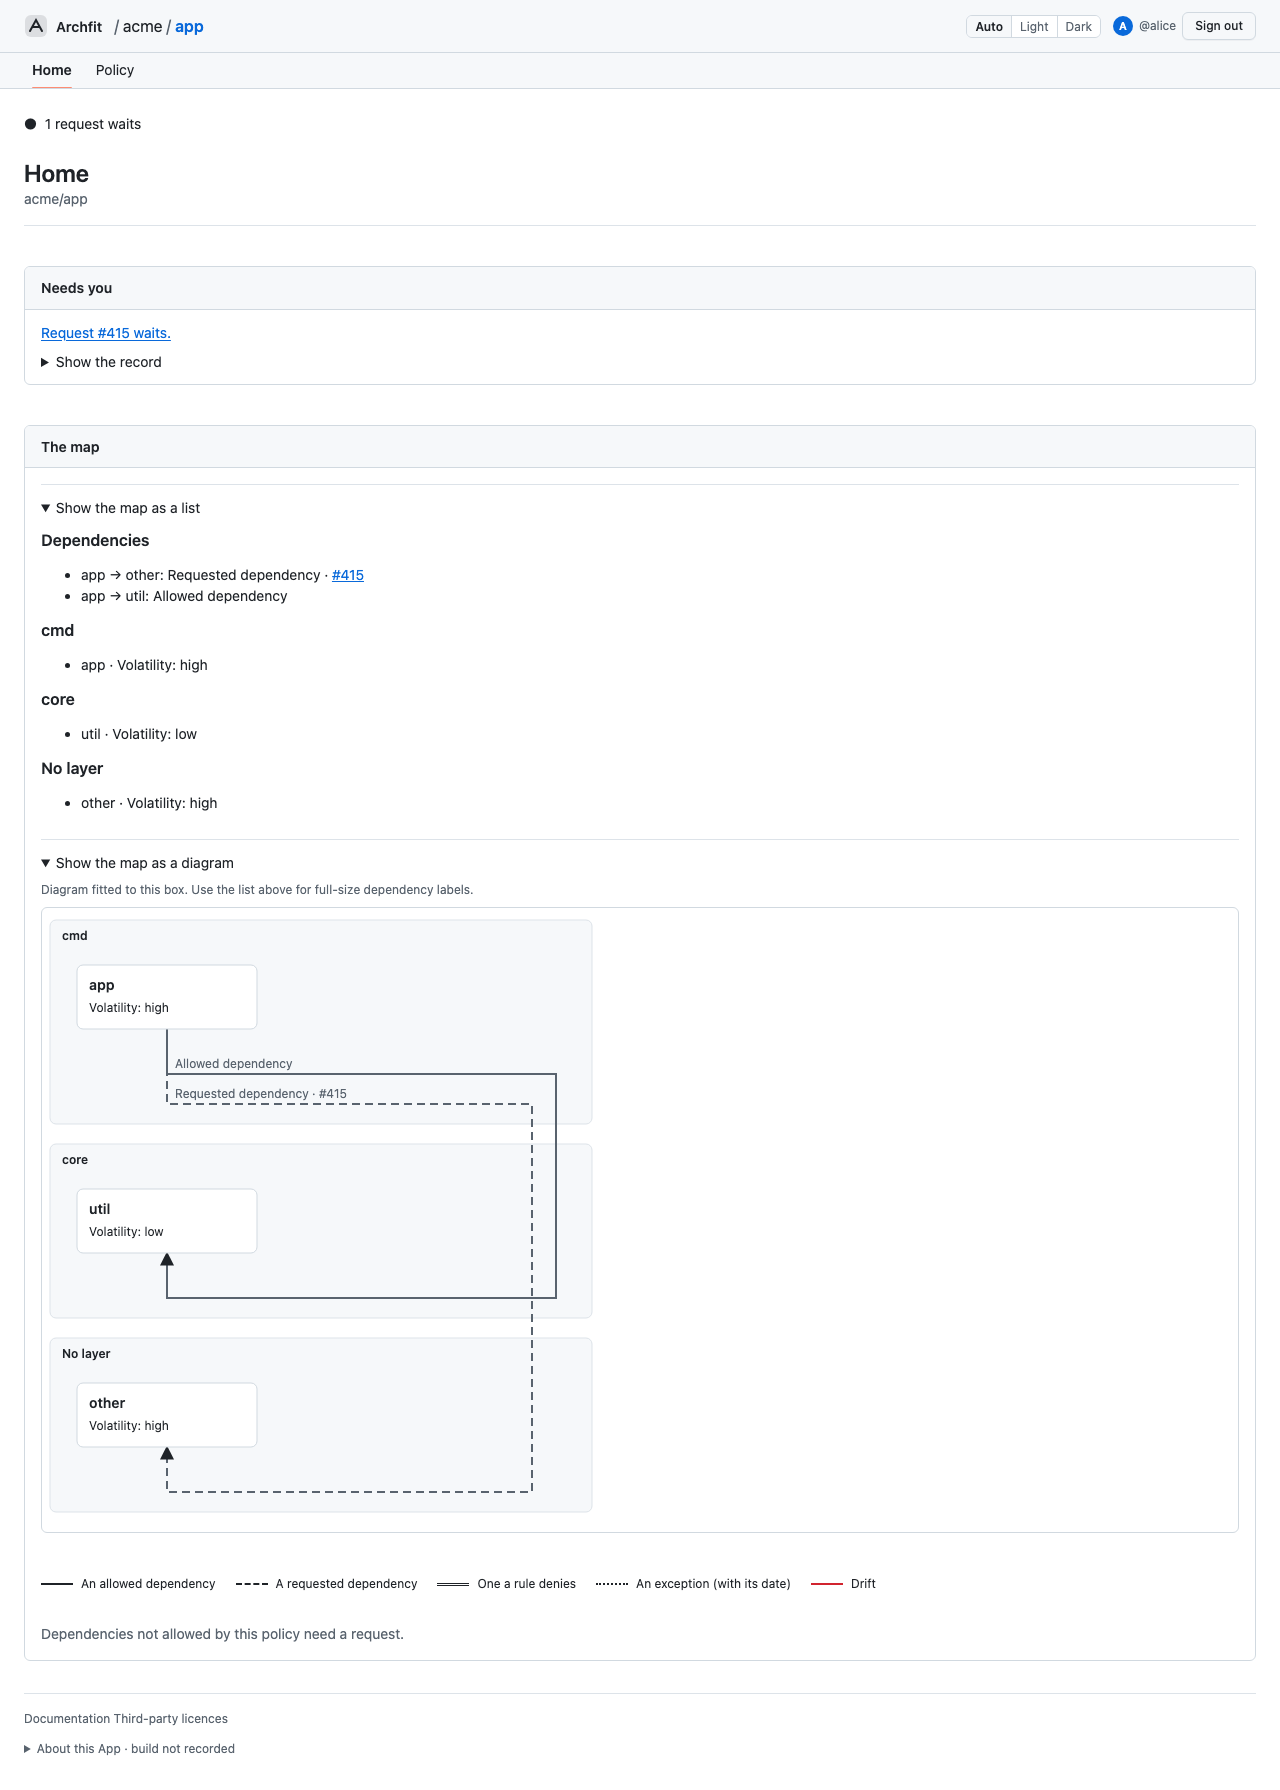
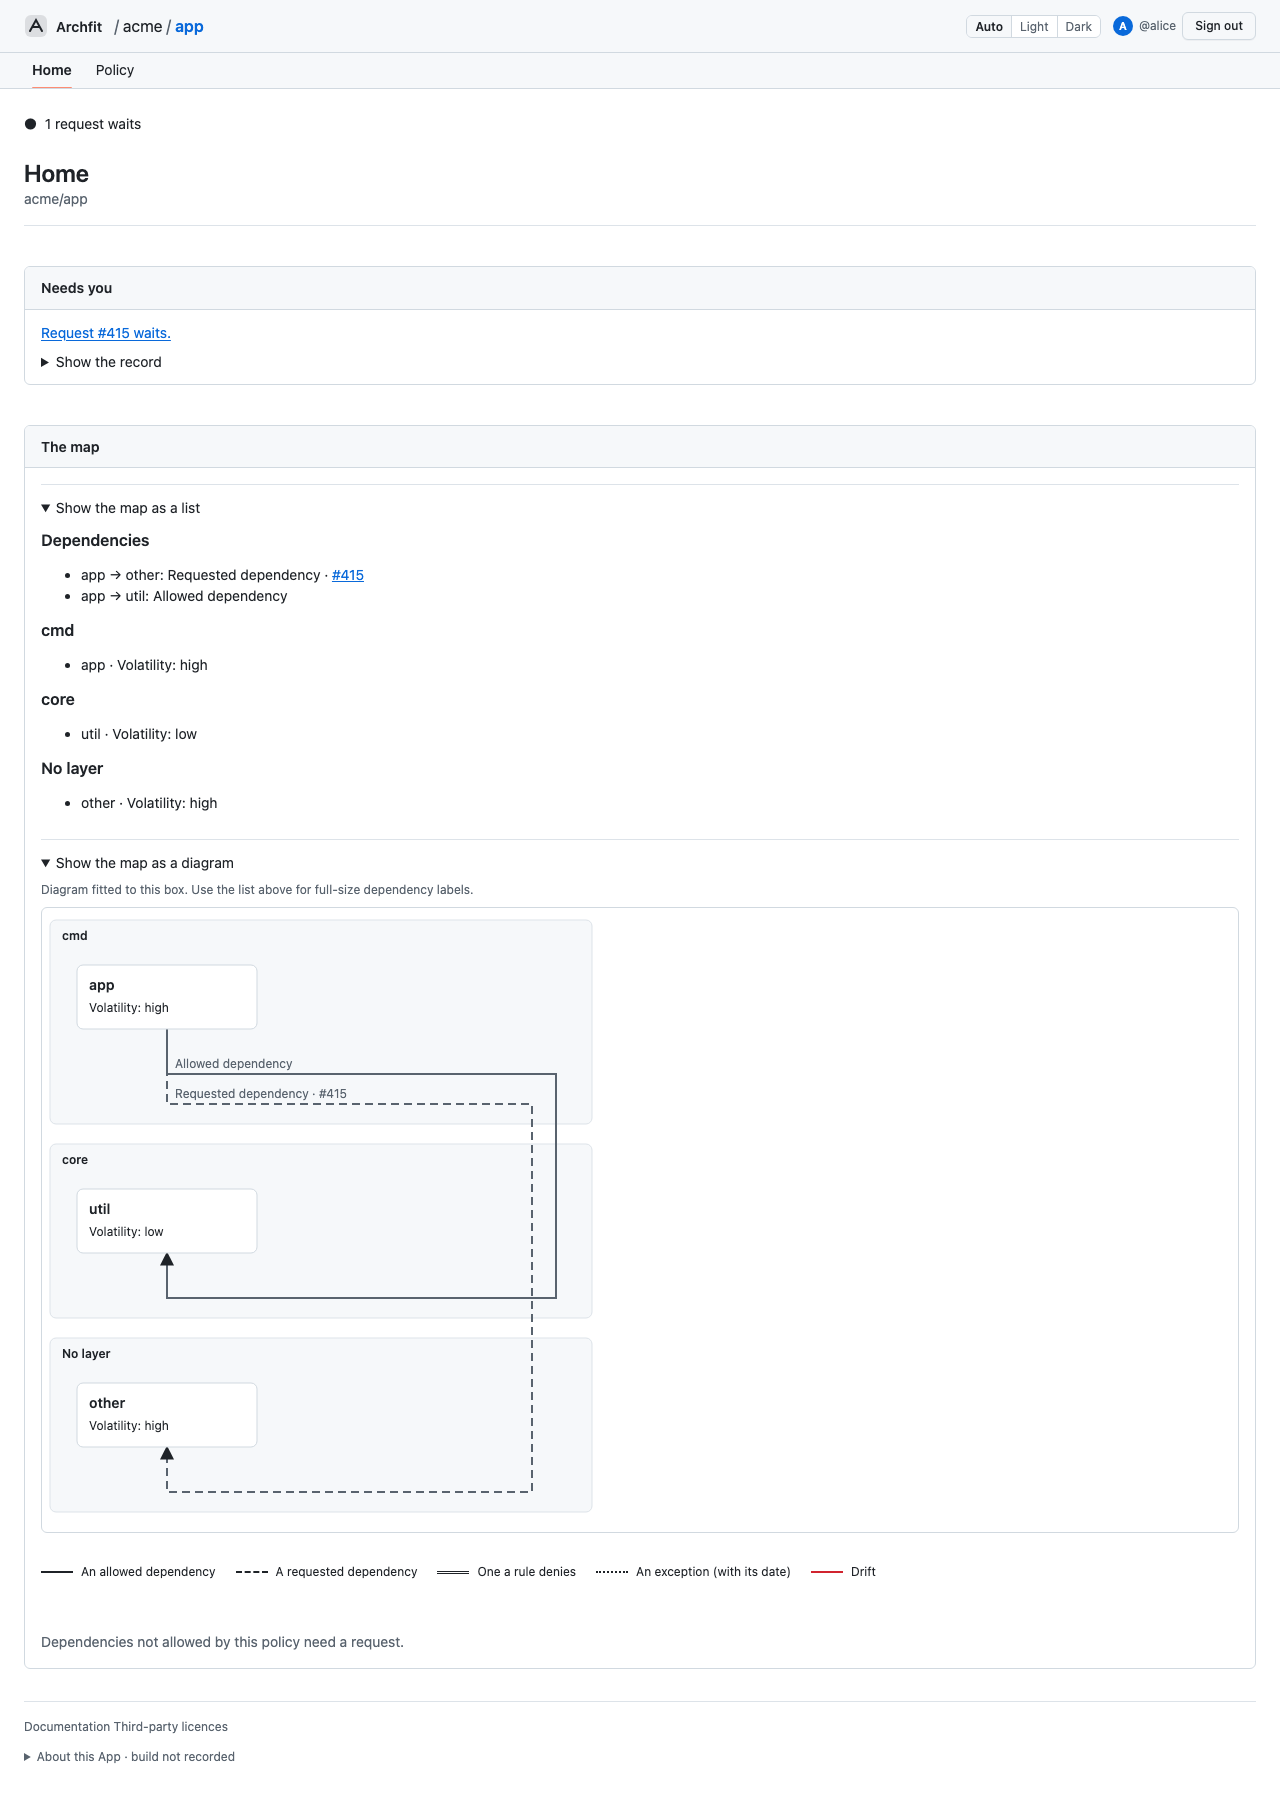
fix(web): keep the map legend inside the diagram disclosure

diff --git a/web/e2e/map-usability.spec.ts b/web/e2e/map-usability.spec.ts
@@ -34,10 +34,13 @@ for (const width of [390, 1280]) {
     const listToggle = page.getByText('Show the map as a list', { exact: true });
     const diagramToggle = page.getByText('Show the map as a diagram', { exact: true });
     await expect(page.locator('.map-node')).toHaveCount(3);
-    await expect(page.getByRole('list', { name: 'Map legend' })).not.toContainText('#');
+    const legend = page.locator('.map-diagram').getByRole('list', { name: 'Map legend', includeHidden: true });
+    await expect(legend).toHaveCount(1);
     await expect(page.locator('main')).not.toContainText('#431');
     if (width < 720) {
       await expect(diagram).toBeHidden();
+      await expect(legend).toBeHidden();
+      expect(await page.locator('main').innerText()).not.toContain('A requested dependency');
       await expect(page.getByText('app → other: Requested dependency · #415', { exact: true })).toBeVisible();
     } else {
       await expect(diagram).toBeVisible();
@@ -56,6 +59,9 @@ for (const width of [390, 1280]) {
       await page.keyboard.press('Enter');
     }
     await expect(diagram).toBeVisible();
+    await expect(legend).toBeVisible();
+    await expect(legend).not.toContainText('#');
+    await expect(legend).toContainText('A requested dependency');
     expect(await diagram.evaluate((el) => el.getBoundingClientRect().width)).toBeLessThanOrEqual(width - 32);
     expect(
       await diagram.evaluate((el: SVGSVGElement) => {

diff --git a/web/src/components/map/Map.svelte b/web/src/components/map/Map.svelte
@@ -91,8 +91,6 @@
       {/each}
     </svg>
   </div>
-  </details>
-{/if}
 
 <ul class="map-legend" aria-label="Map legend">
   <li><span class="sample allowed" aria-hidden="true"></span>An allowed dependency</li>
@@ -101,6 +99,8 @@
   <li><span class="sample exception" aria-hidden="true"></span>An exception (with its date)</li>
   <li><span class="sample drift" aria-hidden="true"></span>Drift</li>
 </ul>
+  </details>
+{/if}
 
 <p class="muted map-note">Dependencies not allowed by this policy need a request.</p>
 
